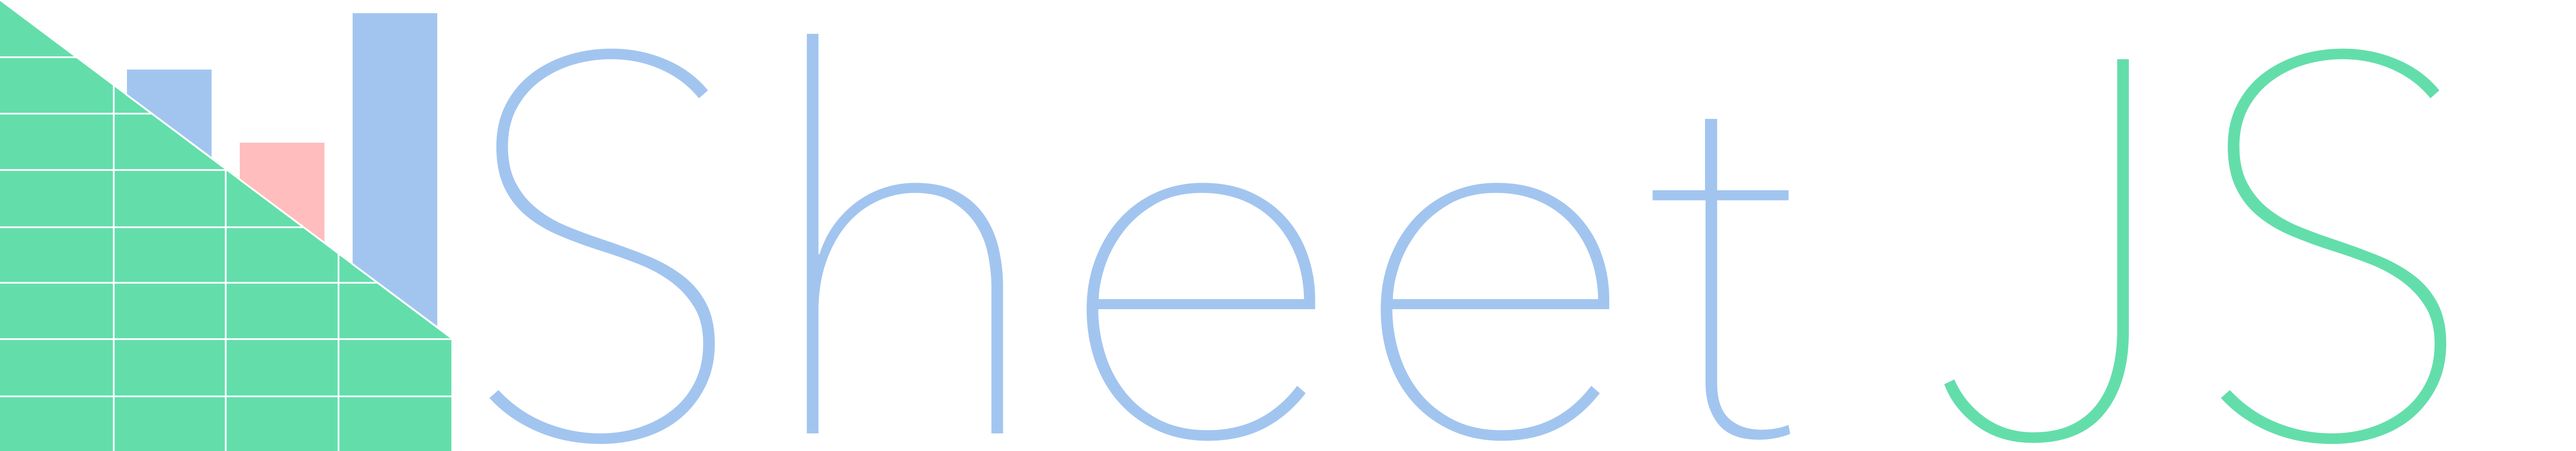
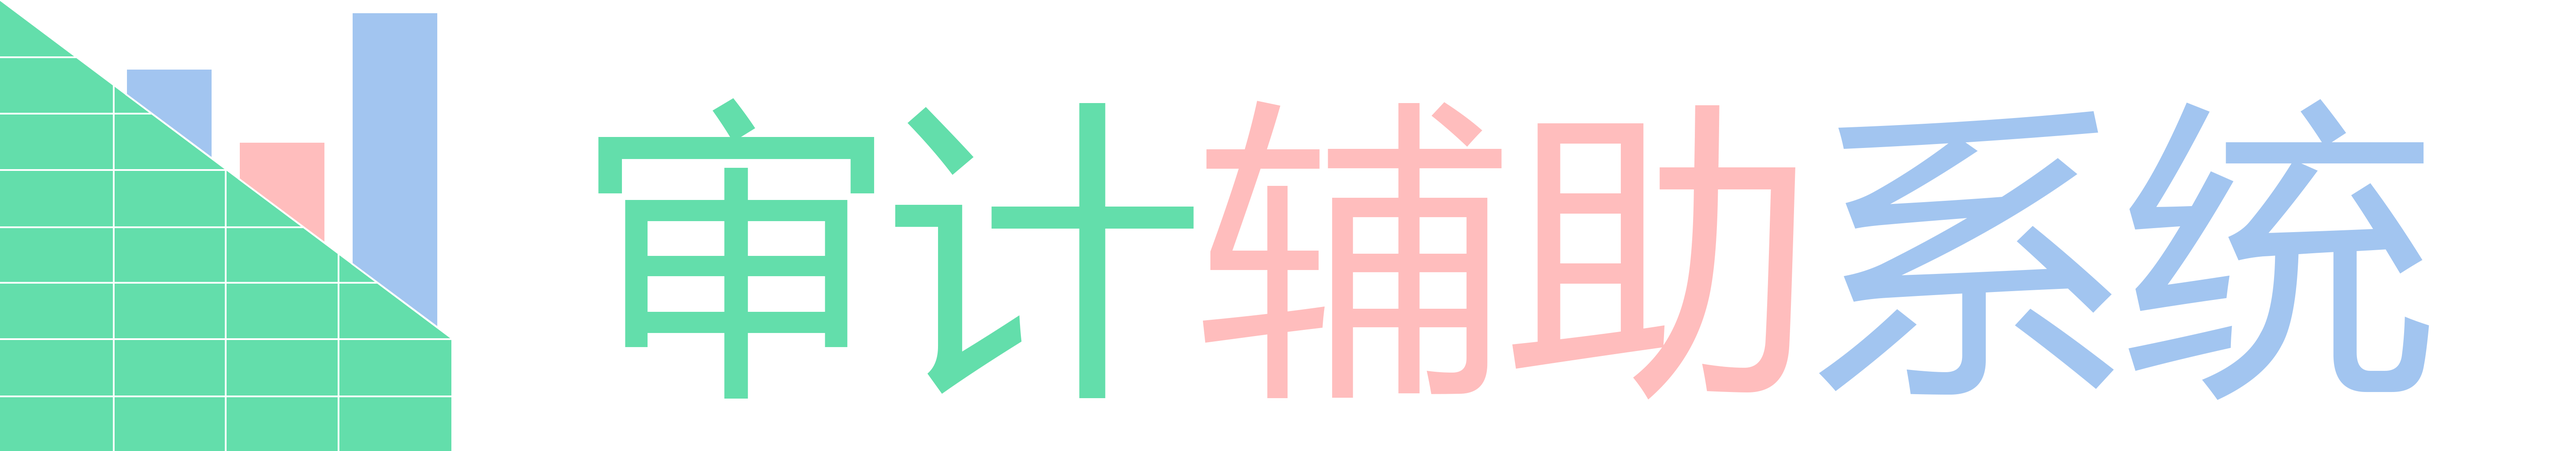
v2.0

diff --git a/assets/js/main.js b/assets/js/main.js
@@ -13,24 +13,29 @@ $(function () {
 });
 
 $(function (json) {
+
+
     json = JSON.parse(localStorage.table_json);
+    if (typeof json !== "undefined") {
+        make_banner_s();
 
-    /* 显示 grid */
-    _grid.style.display = "block";
-    _resize();
+        /* 显示 grid */
+        _grid.style.display = "block";
+        _resize();
 
-    /* 设置表头 */
-    var L = 0;
-    json.forEach(function(r) {
-        if(L < r.length) L = r.length;
-    });
+        /* 设置表头 */
+        var L = 0;
+        json.forEach(function(r) {
+            if(L < r.length) L = r.length;
+        });
 
-    /* 加载数据 */
-    cdg.data = json;
+        /* 加载数据 */
+        cdg.data = json;
 
-    /* 操作表格 */
-    cdg.autosize();
-    cdg.deleteRow(0);
+        /* 操作表格 */
+        cdg.autosize();
+        cdg.deleteRow(0);
+    }
 });
 
 
@@ -72,11 +77,17 @@ var make_buttons = function(sheetnames, cb) {
         btn.type = 'button';
         btn.name = 'btn' + idx;
         btn.text = s;
-        var txt = document.createElement('h3'); txt.innerText = s; btn.appendChild(txt);
+        var txt = document.createElement('h3');
+        txt.innerText = s; btn.appendChild(txt);
         btn.addEventListener('click', function() { cb(idx); }, false);
         buttons.appendChild(btn);
-        buttons.appendChild(document.createElement('br'));
     });
+};
+
+var make_banner_s = function() {
+    var banner_s = document.getElementById('banner_s_h2');
+    banner_s.innerHTML = "<img id=\"banner_s\" src=\"assets/img/banner.png\">";
+
 };
 
 var cdg = canvasDatagrid({
@@ -94,8 +105,13 @@ function _resize() {
 //window.addEventListener('resize', _resize);
 
 var _onsheet = function(json, sheetnames, select_sheet_cb) {
+    console.log("测试" + json);
+    if (typeof json === "undefined") {
+        alertify.alert('空表格', function(){});
+    }
 
-    //make_buttons(sheetnames, select_sheet_cb);
+    make_banner_s();
+    make_buttons(sheetnames, select_sheet_cb);
 
     /* 显示 grid */
     _grid.style.display = "block";
@@ -127,17 +143,18 @@ var _onsheet = function(json, sheetnames, select_sheet_cb) {
         }
     }
     console.log("json[0]: " + json[0]);
-    for (var i = 1; i < json.length; i ++){
-        json[i].splice(insert_pos, 0 , "");
-        for (var j = 0; j < dx_keys.length; j ++)
-            if (json[i][insert_pos-1].indexOf(dx_keys[j])> -1)
-                json[i][insert_pos] += dx_keys[j]+"; ";
+    if (json[0][insert_pos] === "关键词")
+        for (var i = 1; i < json.length; i ++){
+            json[i].splice(insert_pos, 0 , "");
+            for (var j = 0; j < dx_keys.length; j ++)
+                if (json[i][insert_pos-1] && json[i][insert_pos-1].indexOf(dx_keys[j])> -1)
+                    json[i][insert_pos] += dx_keys[j]+"; ";
 
-        if (json[i][json[i].length-1] === "1")
-            json[i][L] = "大学";
-        else if (json[i][json[i].length-1] === "2")
-            json[i][L] = "研究机构"
-    }
+            if (json[i][json[i].length-1] === "1")
+                json[i][L] = "大学";
+            else if (json[i][json[i].length-1] === "2")
+                json[i][L] = "研究机构"
+        }
 
     /* 加载数据 */
     cdg.data = json;

diff --git a/index.html b/index.html
@@ -35,13 +35,16 @@
         <div id="left">
             <div id="drop">
                 <input type="file" id="file" value=""><br>
-                <label for="file">... 或 点击按钮选择一个文件</label>
+                <label for="file">拖动文件到虚线区域或点击按钮选择一个文件</label>
             </div>
         </div>
+        <div id="right">
+            <div id="buttons"></div>
+        </div>
 
-        <h2>审 计 辅 助 系 统</h2>
+        <h2 id="banner_s_h2"></h2>
+        <h2><img id="banner_l" src="assets/img/banner.png"></h2>
     </div>
-
     <div id="grid"></div>
 
 

diff --git a/assets/css/sheetjs.css b/assets/css/sheetjs.css
@@ -15,17 +15,42 @@ h2 {
     width: max-content;
 }
 
+label {
+    margin: 0 10px;
+}
+
 #left {
-    width: 188px;
     margin: 0 0 0 10px;
     position: absolute;
     left: 0;
 }
 
 #right {
+    margin: 0 10px 0 0;
     position: absolute;
-    left: 200px;
-    width: 188px;
+    right: 0;
+}
+#div_banner {
+    width: 100%;
+    height: 100%;
+    position: absolute;
+}
+
+#banner_s{
+    width: 15%;
+    height: 15%;
+}
+
+#banner_l{
+    width: 60%;
+    height: 60%;
+    margin: 10% 0;
+}
+
+button{
+    height: 40px;
+    text-align: center;
+    vertical-align: auto;
 }
 
 #logo {
